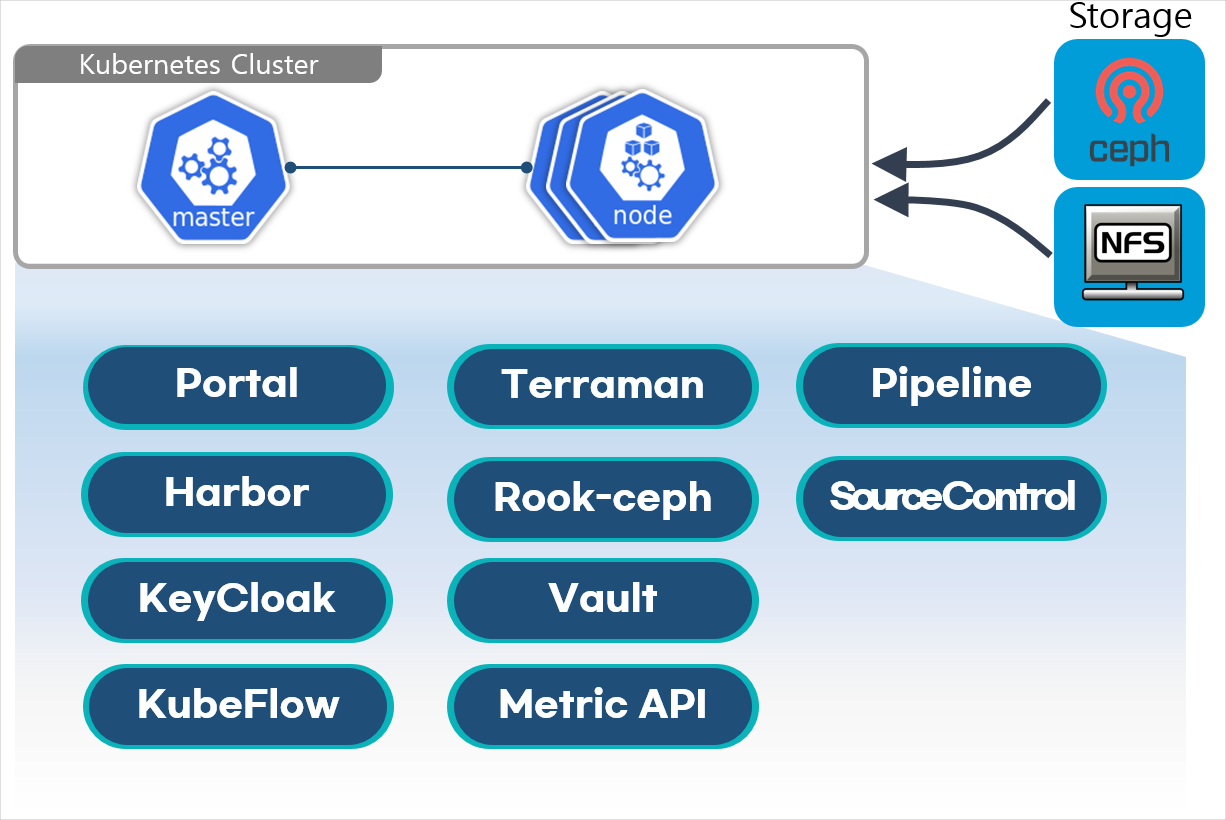
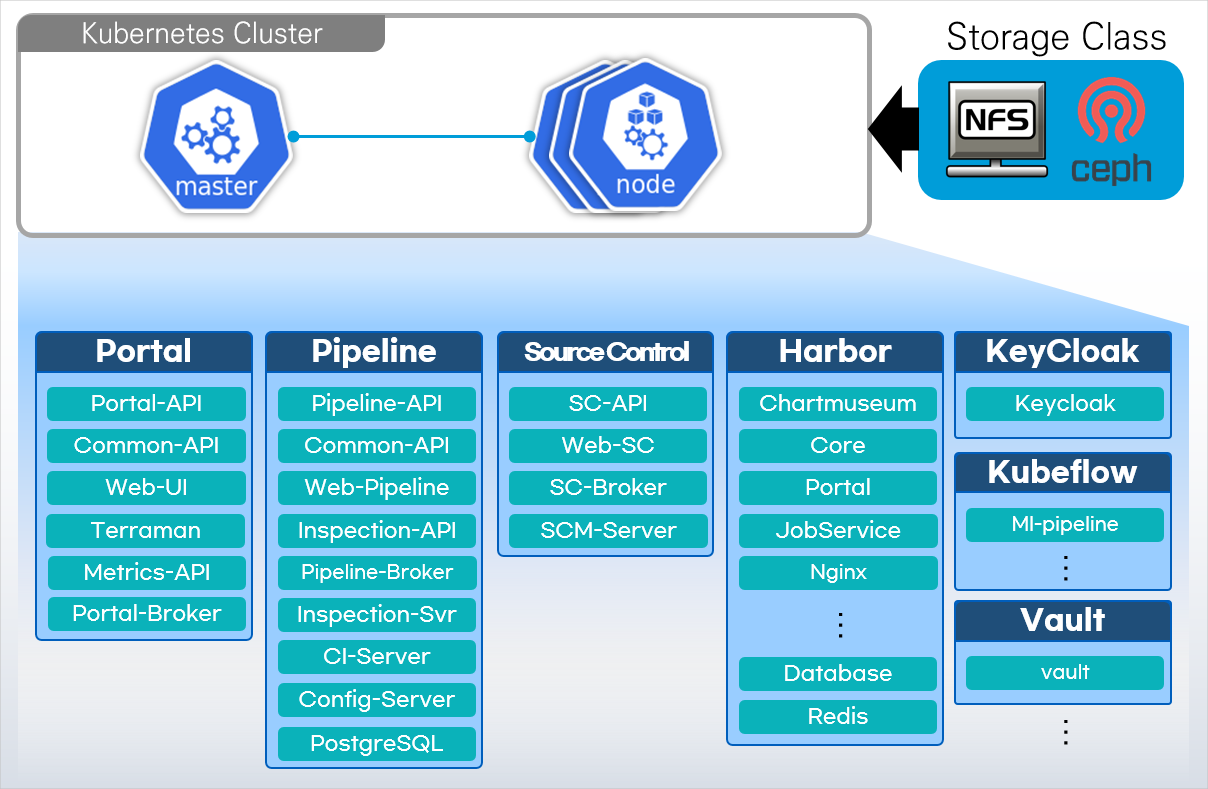
Update Guide v1.4.0

diff --git a/README.md b/README.md
@@ -78,9 +78,9 @@
   + [클러스터 설치 가이드](install-guide/standalone/cp-cluster-install.md)
   + [설치 및 배포 파일](https://github.com/PaaS-TA/paas-ta-container-platform-deployment/tree/master/standalone)
 - 포털 설치
-  + [포털 설치 가이드](install-guide/container-platform-portal/paas-ta-container-platform-portal-deployment-standalone-guide.md)  
-  + [Keycloak TLS 설정 가이드](install-guide/container-platform-portal/paas-ta-container-platform-portal-deployment-keycloak-tls-setting-guide.md)    
-  + [설치 및 배포 파일](https://github.com/PaaS-TA/paas-ta-container-platform-deployment/tree/master)  
+  + [포털 설치 가이드](install-guide/container-platform-portal/paas-ta-container-platform-portal-deployment-standalone-guide.md)
+  + [Keycloak TLS 설정 가이드](install-guide/container-platform-portal/paas-ta-container-platform-portal-deployment-keycloak-tls-setting-guide.md)
+  + [설치 및 배포 파일](https://github.com/PaaS-TA/container-platform-helm-chart/tree/master)
   + [릴리즈 파일](https://github.com/PaaS-TA/container-platform-portal-release/tree/master)
 - 서비스 설치
   + [Pipeline 설치 가이드](install-guide/pipeline/paas-ta-container-platform-pipeline-standalone-guide.md)
@@ -92,21 +92,21 @@
   + [설치 및 배포 파일](https://github.com/PaaS-TA/paas-ta-container-platform-deployment/tree/master/standalone)
 - 포털 설치
   + [포털 설치 가이드](install-guide/container-platform-portal/paas-ta-container-platform-portal-deployment-service-guide.md)
-  + [Keycloak TLS 설정 가이드](install-guide/container-platform-portal/paas-ta-container-platform-portal-deployment-keycloak-tls-setting-guide.md)      
-  + [설치 및 배포 파일](https://github.com/PaaS-TA/paas-ta-container-platform-deployment/tree/master)   
-  + [릴리즈 파일](https://github.com/PaaS-TA/container-platform-portal-release/tree/master) 
+  + [Keycloak TLS 설정 가이드](install-guide/container-platform-portal/paas-ta-container-platform-portal-deployment-keycloak-tls-setting-guide.md)
+  + [설치 및 배포 파일](https://github.com/PaaS-TA/container-platform-helm-chart/tree/master)
+  + [릴리즈 파일](https://github.com/PaaS-TA/container-platform-portal-release/tree/master)
 - 서비스 설치
   + [Pipeline 설치 가이드](install-guide/pipeline/paas-ta-container-platform-pipeline-service-guide.md)
   + [SourceControl 설치 가이드](install-guide/source-control/paas-ta-container-platform-source-control-service-guide.md)
 
 ### Edge 배포
 - Edge 설치
-  + [Edge 설치 가이드](install-guide/edge/cp-edge-install.md)  
+  + [Edge 설치 가이드](install-guide/edge/cp-edge-install.md)
   + [설치 및 배포 파일](https://github.com/PaaS-TA/paas-ta-container-platform-deployment/tree/master/edge)
 - 포털 설치
-  + [포털 설치 가이드](install-guide/container-platform-portal/paas-ta-container-platform-portal-deployment-standalone-guide.md)  
-  + [Keycloak TLS 설정 가이드](install-guide/container-platform-portal/paas-ta-container-platform-portal-deployment-keycloak-tls-setting-guide.md)      
-  + [설치 및 배포 파일](https://github.com/PaaS-TA/paas-ta-container-platform-deployment/tree/master)  
+  + [포털 설치 가이드](install-guide/container-platform-portal/paas-ta-container-platform-portal-deployment-standalone-guide.md)
+  + [Keycloak TLS 설정 가이드](install-guide/container-platform-portal/paas-ta-container-platform-portal-deployment-keycloak-tls-setting-guide.md)
+  + [설치 및 배포 파일](https://github.com/PaaS-TA/container-platform-helm-chart/tree/master)
   + [릴리즈 파일](https://github.com/PaaS-TA/container-platform-portal-release/tree/master)
 - 서비스 설치
   + [Pipeline 설치 가이드](install-guide/pipeline/paas-ta-container-platform-pipeline-standalone-guide.md)
@@ -120,7 +120,7 @@
 ## Use
 
 ### 포털 이용 가이드
-  + [포털 사용 가이드](use-guide/portal/container-platform-portal-guide.md) 
+  + [포털 사용 가이드](use-guide/portal/container-platform-portal-guide.md)
   + [Terraman IaC 스크립트 가이드](check-guide/paas-ta-container-terraman-check-guide.md)
   
 ### 서비스 이용 가이드
@@ -135,7 +135,7 @@
 ## Project
 
 ### 포털 프로젝트 
-- [container-platform-portal-api](https://github.com/PaaS-TA/container-platform-portal-api)  
+- [container-platform-portal-api](https://github.com/PaaS-TA/container-platform-portal-api)
 - [container-platform-portal-common-api](https://github.com/PaaS-TA/container-platform-portal-common-api)
 - [container-platform-portal-ui](https://github.com/PaaS-TA/container-platform-portal-ui)
 - [container-platform-portal-service-broker](https://github.com/PaaS-TA/container-platform-portal-service-broker)
@@ -149,7 +149,7 @@
 - [container-platform-pipeline-common-api](https://github.com/PaaS-TA/container-platform-pipeline-common-api)
 - [container-platform-pipeline-inspection-api](https://github.com/PaaS-TA/container-platform-pipeline-inspection-api)
 - [container-platform-pipeline-ui](https://github.com/PaaS-TA/container-platform-pipeline-ui)
-- [container-platform-pipeline-broker](https://github.com/PaaS-TA/container-platform-pipeline-broker)  
+- [container-platform-pipeline-broker](https://github.com/PaaS-TA/container-platform-pipeline-broker)
 
 #### Source Control
 - [container-platform-source-control-api](https://github.com/PaaS-TA/container-platform-source-control-api)

diff --git a/install-guide/Readme.md b/install-guide/Readme.md
@@ -1,48 +1,46 @@
 ### [Index](https://github.com/PaaS-TA/Guide/blob/master/README.md) > CP Install
 # Container Platform(CP) - install
 
-## 단독형 배포   
+### 단독형 배포   
 - 클러스터 설치
   + [클러스터 설치 가이드](standalone/cp-cluster-install.md)
   + [설치 및 배포 파일](https://github.com/PaaS-TA/paas-ta-container-platform-deployment/tree/master/standalone)
 - 포털 설치
-  + [포털 설치 가이드](container-platform-portal/paas-ta-container-platform-portal-deployment-standalone-guide.md)  
-  + [Keycloak TLS 설정 가이드](container-platform-portal/paas-ta-container-platform-portal-deployment-keycloak-tls-setting-guide.md)  
-  + [설치 및 배포 파일](https://github.com/PaaS-TA/container-platform-helm-chart/tree/master/container-platform-portal)  
+  + [포털 설치 가이드](container-platform-portal/paas-ta-container-platform-portal-deployment-standalone-guide.md)
+  + [Keycloak TLS 설정 가이드](container-platform-portal/paas-ta-container-platform-portal-deployment-keycloak-tls-setting-guide.md)
+  + [설치 및 배포 파일](https://github.com/PaaS-TA/container-platform-helm-chart/tree/master)
   + [릴리즈 파일](https://github.com/PaaS-TA/container-platform-portal-release/tree/master)
 - 서비스 설치
   + [Pipeline 설치 가이드](pipeline/paas-ta-container-platform-pipeline-standalone-guide.md)
   + [SourceControl 설치 가이드](source-control/paas-ta-container-platform-source-control-standalone-guide.md)
 
-## 서비스형 배포
+### 서비스형 배포 
 - 클러스터 설치
-  + [클러스터 설치 가이드](standalone/cp-cluster-install.md)  
+  + [클러스터 설치 가이드](standalone/cp-cluster-install.md)
   + [설치 및 배포 파일](https://github.com/PaaS-TA/paas-ta-container-platform-deployment/tree/master/standalone)
 - 포털 설치
   + [포털 설치 가이드](container-platform-portal/paas-ta-container-platform-portal-deployment-service-guide.md)
-  + [Keycloak TLS 설정 가이드](container-platform-portal/paas-ta-container-platform-portal-deployment-keycloak-tls-setting-guide.md)  
-  + [설치 및 배포 파일](https://github.com/PaaS-TA/container-platform-helm-chart/tree/master/container-platform-portal)   
+  + [Keycloak TLS 설정 가이드](container-platform-portal/paas-ta-container-platform-portal-deployment-keycloak-tls-setting-guide.md)
+  + [설치 및 배포 파일](https://github.com/PaaS-TA/container-platform-helm-chart/tree/master)
   + [릴리즈 파일](https://github.com/PaaS-TA/container-platform-portal-release/tree/master)
 - 서비스 설치
   + [Pipeline 설치 가이드](pipeline/paas-ta-container-platform-pipeline-service-guide.md)
   + [SourceControl 설치 가이드](source-control/paas-ta-container-platform-source-control-service-guide.md)
 
-## Edge 배포
+### Edge 배포
 - Edge 설치
-  + [Edge 설치 가이드](edge/cp-edge-install.md)  
+  + [Edge 설치 가이드](edge/cp-edge-install.md)
   + [설치 및 배포 파일](https://github.com/PaaS-TA/paas-ta-container-platform-deployment/tree/master/edge)
 - 포털 설치
-  + [포털 설치 가이드](container-platform-portal/paas-ta-container-platform-portal-deployment-standalone-guide.md)  
-  + [Keycloak TLS 설정 가이드](container-platform-portal/paas-ta-container-platform-portal-deployment-keycloak-tls-setting-guide.md)  
-  + [설치 및 배포 파일](https://github.com/PaaS-TA/container-platform-helm-chart/tree/master/container-platform-portal)  
+  + [포털 설치 가이드](container-platform-portal/paas-ta-container-platform-portal-deployment-standalone-guide.md)
+  + [Keycloak TLS 설정 가이드](container-platform-portal/paas-ta-container-platform-portal-deployment-keycloak-tls-setting-guide.md)
+  + [설치 및 배포 파일](https://github.com/PaaS-TA/container-platform-helm-chart/tree/master)
   + [릴리즈 파일](https://github.com/PaaS-TA/container-platform-portal-release/tree/master)
 - 서비스 설치
   + [Pipeline 설치 가이드](pipeline/paas-ta-container-platform-pipeline-standalone-guide.md)
   + [SourceControl 설치 가이드](source-control/paas-ta-container-platform-source-control-standalone-guide.md)
 - 샘플 모델
   + [웹 카운팅 / 실시간 온도수집](edge/paas-ta-container-platform-edge-sample-guide.md)
-
-
 
 
 ### [Index](https://github.com/PaaS-TA/Guide/blob/master/README.md) > CP Install

diff --git a/install-guide/pipeline/paas-ta-container-platform-pipeline-service-guide.md b/install-guide/pipeline/paas-ta-container-platform-pipeline-service-guide.md
@@ -40,13 +40,15 @@
 <br>
 
 ### <div id='1.3'>1.3. 시스템 구성도
-![image](https://user-images.githubusercontent.com/80228983/146350860-3722c081-7338-438d-b7ec-1fdac09160c4.png)<br>
+<p align="center"><img src="https://user-images.githubusercontent.com/33216551/209299431-af201419-9220-425a-8552-d15e379f8ee7.png" width="850" height="530">
 <br>
-시스템 구성은 Kubernetes Cluster(Master, Worker) 환경과 데이터 관리를 위한 네트워크 파일 시스템(NFS) 스토리지 서버로 구성되어 있다. 
-Kubespray를 통해 설치된 Kubernetes Cluster 환경에 컨테이너 플랫폼 파이프라인 이미지 및 Helm Chart를 관리하는 Harbor, 컨테이너 플랫폼 파이프라인 사용자 인증을 관리하는 Keycloak, 컨테이너 플랫폼 파이프라인 메타 데이터를 관리하는 MariaDB(RDBMS)가 컨테이너 플랫폼 포털을 통해서 제공된다.
- 컨테이너 플랫폼 파이프라인에서는 지속적 통합과 배포 기능을 관리하는 Jenkins 서버(Ci-Server) 와 정적 분석을 위한 Sonarqube(Inspection-Server), 배포되는 애플리케이션의 Config를 관리하는 Spring Config Server(Config-Server) 등 파이프라인 동작에 필요한 환경을 컨테이너로 제공한다. 
-총 필요한 VM 환경으로는 Master Node VM: 1개, Worker Node VM: 1개 이상, NFS Server : 1개가 필요하고 본 문서는 Kubernetes Cluster에 컨테이너 플랫폼 파이프라인 환경을 배포하는 내용이다. 네트워크 파일 시스템(NFS) 은 컨테이너 플랫폼에서 기본으로 제공하는 스토리지로 사용자 환경에 따라 다양한 종류의 스토리지를 사용할 수 있다. 
 
+시스템 구성은 Kubernetes Cluster(Master, Worker) 환경과 데이터 관리를 위한 스토리지 서버로 구성되어 있다. 
+Kubespray를 통해 설치된 Kubernetes Cluster 환경에 컨테이너 플랫폼 파이프라인 이미지 및 Helm Chart를 관리하는 Harbor, 컨테이너 플랫폼 파이프라인 사용자 인증을 관리하는 Keycloak, 컨테이너 플랫폼 파이프라인 메타 데이터를 관리하는 MariaDB(RDBMS)가 컨테이너 플랫폼 포털을 통해서 제공된다.
+컨테이너 플랫폼 파이프라인에서는 지속적 통합과 배포 기능을 관리하는 Jenkins 서버(Ci-Server) 와 정적 분석을 위한 Sonarqube(Inspection-Server), 배포되는 애플리케이션의 Config를 관리하는 Spring Config Server(Config-Server) 등 파이프라인 동작에 필요한 환경을 컨테이너로 제공한다. 
+총 필요한 VM 환경으로는 Master VM: 1개, Worker VM: 3개 이상이 필요하고 본 문서는 Kubernetes Cluster에 컨테이너 플랫폼 파이프라인 환경을 배포하는 내용이다. 
+
+<br>
 
 ### <div id='1.4'>1.4. 참고 자료
 > https://kubernetes.io/ko/docs  

diff --git a/install-guide/pipeline/paas-ta-container-platform-pipeline-standalone-guide.md b/install-guide/pipeline/paas-ta-container-platform-pipeline-standalone-guide.md
@@ -39,12 +39,15 @@
 <br>
 
 ### <div id='1.3'>1.3. 시스템 구성도
-![image](https://user-images.githubusercontent.com/80228983/146350860-3722c081-7338-438d-b7ec-1fdac09160c4.png)
+<p align="center"><img src="https://user-images.githubusercontent.com/33216551/209299431-af201419-9220-425a-8552-d15e379f8ee7.png" width="850" height="530">
 <br>
-시스템 구성은 Kubernetes Cluster(Master, Worker) 환경과 데이터 관리를 위한 네트워크 파일 시스템(NFS) 스토리지 서버로 구성되어 있다. 
+
+시스템 구성은 Kubernetes Cluster(Master, Worker) 환경과 데이터 관리를 위한 스토리지 서버로 구성되어 있다. 
 Kubespray를 통해 설치된 Kubernetes Cluster 환경에 컨테이너 플랫폼 파이프라인 이미지 및 Helm Chart를 관리하는 Harbor, 컨테이너 플랫폼 파이프라인 사용자 인증을 관리하는 Keycloak, 컨테이너 플랫폼 파이프라인 메타 데이터를 관리하는 MariaDB(RDBMS)가 컨테이너 플랫폼 포털을 통해서 제공된다.
- 컨테이너 플랫폼 파이프라인에서는 지속적 통합과 배포 기능을 관리하는 Jenkins 서버(Ci-Server) 와 정적 분석을 위한 Sonarqube(Inspection-Server), 배포되는 애플리케이션의 Config를 관리하는 Spring Config Server(Config-Server) 등 파이프라인 동작에 필요한 환경을 컨테이너로 제공한다. 
-총 필요한 VM 환경으로는 Master Node VM: 1개, Worker Node VM: 1개 이상, NFS Server : 1개가 필요하고 본 문서는 Kubernetes Cluster에 컨테이너 플랫폼 파이프라인 환경을 배포하는 내용이다. 네트워크 파일 시스템(NFS) 은 컨테이너 플랫폼에서 기본으로 제공하는 스토리지로 사용자 환경에 따라 다양한 종류의 스토리지를 사용할 수 있다.
+컨테이너 플랫폼 파이프라인에서는 지속적 통합과 배포 기능을 관리하는 Jenkins 서버(Ci-Server) 와 정적 분석을 위한 Sonarqube(Inspection-Server), 배포되는 애플리케이션의 Config를 관리하는 Spring Config Server(Config-Server) 등 파이프라인 동작에 필요한 환경을 컨테이너로 제공한다. 
+총 필요한 VM 환경으로는 Master VM: 1개, Worker VM: 3개 이상이 필요하고 본 문서는 Kubernetes Cluster에 컨테이너 플랫폼 파이프라인 환경을 배포하는 내용이다. 
+
+<br>
 
 ### <div id='1.4'>1.4. 참고 자료
 > https://kubernetes.io/ko/docs  

diff --git a/install-guide/source-control/paas-ta-container-platform-source-control-service-guide.md b/install-guide/source-control/paas-ta-container-platform-source-control-service-guide.md
@@ -39,13 +39,15 @@
 <br>
 
 ### <div id='1.3'>1.3. 시스템 구성도
-![image](https://user-images.githubusercontent.com/80228983/146350860-3722c081-7338-438d-b7ec-1fdac09160c4.png)
-<br>    
-시스템 구성은 Kubernetes Cluster(Master, Worker) 환경과 데이터 관리를 위한 네트워크 파일 시스템(NFS) 스토리지 서버로 구성되어 있다. 
-Kubespray를 통해 설치된 Kubernetes Cluster 환경에 컨테이너 플랫폼 소스 컨트롤 이미지 및 Helm Chart를 관리하는 Harbor, 컨테이너 플랫폼 소스 컨트롤 사용자 인증을 관리하는 Keycloak, 컨테이너 플랫폼 소스 컨트롤 메타 데이터를 관리하는 MariaDB(RDBMS)가 컨테이너 플랫폼 포털을 통해서 제공된다.
- 컨테이너 플랫폼 소스 컨트롤에서는 소스를 관리하는 SCM-Server를 컨테이너로 제공한다. 
-총 필요한 VM 환경으로는 Master Node VM: 1개, Worker Node VM: 1개 이상, NFS Server : 1개가 필요하고 본 문서는 Kubernetes Cluster에 컨테이너 플랫폼 소스 컨트롤 환경을 배포하는 내용이다. 네트워크 파일 시스템(NFS) 은 컨테이너 플랫폼에서 기본으로 제공하는 스토리지로 사용자 환경에 따라 다양한 종류의 스토리지를 사용할 수 있다. 
+<p align="center"><img src="https://user-images.githubusercontent.com/33216551/209299431-af201419-9220-425a-8552-d15e379f8ee7.png" width="850" height="530">
+<br>
 
+시스템 구성은 Kubernetes Cluster(Master, Worker) 환경과 데이터 관리를 위한 스토리지 서버로 구성되어 있다. 
+Kubespray를 통해 설치된 Kubernetes Cluster 환경에 컨테이너 플랫폼 소스 컨트롤 이미지 및 Helm Chart를 관리하는 Harbor, 컨테이너 플랫폼 소스 컨트롤 사용자 인증을 관리하는 Keycloak, 컨테이너 플랫폼 소스 컨트롤 메타 데이터를 관리하는 MariaDB(RDBMS)가 컨테이너 플랫폼 포털을 통해서 제공된다.
+컨테이너 플랫폼 소스 컨트롤에서는 소스를 관리하는 SCM-Server를 컨테이너로 제공한다. 
+총 필요한 VM 환경으로는 Master VM: 1개, Worker VM: 3개 이상이 필요하고 본 문서는 Kubernetes Cluster에 컨테이너 플랫폼 소스 컨트롤 환경을 배포하는 내용이다.
+
+<br>
 
 ### <div id='1.4'>1.4. 참고 자료
 > https://kubernetes.io/ko/docs  

diff --git a/install-guide/container-platform-portal/paas-ta-container-platform-portal-deployment-service-guide.md b/install-guide/container-platform-portal/paas-ta-container-platform-portal-deployment-service-guide.md
@@ -46,11 +46,13 @@
 <br>
 
 ### <div id='1.3'>1.3. 시스템 구성도
-<p align="center"><img src="images/cp-001.png"></p>    
+<p align="center"><img src="images/cp-001.png" width="850" height="530"></p>
 
-시스템 구성은 **Kubernetes Cluster(Master, Worker)** 환경과 데이터 관리를 위한 **네트워크 파일 시스템(NFS)** 스토리지 서버로 구성되어 있다. Kubespray를 통해 설치된 Kubernetes Cluster 환경에 컨테이너 플랫폼 포털 이미지 및 Helm Chart를 관리하는 **Harbor**, 컨테이너 플랫폼 포털 사용자 인증을 관리하는 **Keycloak**, 컨테이너 플랫폼 포털 메타 데이터를 관리하는 **MariaDB(RDBMS)** 등 미들웨어 환경을 컨테이너로 제공한다. 총 필요한 VM 환경으로는 **Master Node VM: 1개, Worker Node VM: 1개 이상, NFS Server : 1개**가 필요하고 본 문서는 Kubernetes Cluster에 컨테이너 플랫폼 포털 환경을 배포하는 내용이다. **네트워크 파일 시스템(NFS)** 은 컨테이너플랫폼에서 기본으로 제공하는 스토리지로 사용자 환경에 따라 다양한 종류의 스토리지를 사용할 수 있다.  
+시스템 구성은 **Kubernetes Cluster(Master, Worker)** 환경과 데이터 관리를 위한 스토리지 서버로 구성되어 있다.
+Kubespray를 통해 설치된 Kubernetes Cluster 환경에 컨테이너 플랫폼 포털 이미지 및 Helm Chart를 관리하는 **Harbor**, 컨테이너 플랫폼 포털 사용자 인증을 관리하는 **Keycloak**, 인증 데이터를 관리하는 **Vault**, 메타 데이터를 관리하는 **MariaDB(RDBMS)** 등 미들웨어 환경을 컨테이너로 제공한다. 
+총 필요한 VM 환경으로는 **Master VM: 1개, Worker VM: 3개 이상**이 필요하고 본 문서는 Kubernetes Cluster에 컨테이너 플랫폼 포털 환경을 배포하는 내용이다. 
 
-<br>    
+<br> 
 
 ### <div id='1.4'>1.4. 참고 자료
 > https://kubernetes.io/ko/docs<br>

diff --git a/install-guide/source-control/paas-ta-container-platform-source-control-standalone-guide.md b/install-guide/source-control/paas-ta-container-platform-source-control-standalone-guide.md
@@ -38,14 +38,15 @@
 <br>
 
 ### <div id='1.3'>1.3. 시스템 구성도
-시스템 구성은 Kubernetes Cluster(Master, Worker)와 Cluster 내부(DBMS, HAProxy, Private Repository, Keycloak)환경으로 구성되어 있다. <br>
-Kubespray를 통해 Kubernetes Cluster를 설치하고 컨테이너 플랫폼 포털 로 Database, Private Repository 등 미들웨어 환경을 제공하여 Docker Image로 Kubernetes Cluster에 컨테이너 플랫폼 포털 환경을 배포한다. <br>
-총 필요한 VM 환경으로는 **Master Node VM**: 1개, Worker Node VM: 1개 이상 필요하고 본 문서는 Kubernetes Cluster에 컨테이너 플랫폼 소스 컨트롤을 배포하는 내용이다.
+<p align="center"><img src="https://user-images.githubusercontent.com/33216551/209299431-af201419-9220-425a-8552-d15e379f8ee7.png" width="850" height="530">
+<br>
 
-![image](https://user-images.githubusercontent.com/80228983/146350860-3722c081-7338-438d-b7ec-1fdac09160c4.png)
+시스템 구성은 Kubernetes Cluster(Master, Worker) 환경과 데이터 관리를 위한 스토리지 서버로 구성되어 있다. 
+Kubespray를 통해 설치된 Kubernetes Cluster 환경에 컨테이너 플랫폼 소스 컨트롤 이미지 및 Helm Chart를 관리하는 Harbor, 컨테이너 플랫폼 소스 컨트롤 사용자 인증을 관리하는 Keycloak, 컨테이너 플랫폼 소스 컨트롤 메타 데이터를 관리하는 MariaDB(RDBMS)가 컨테이너 플랫폼 포털을 통해서 제공된다.
+컨테이너 플랫폼 소스 컨트롤에서는 소스를 관리하는 SCM-Server를 컨테이너로 제공한다. 
+총 필요한 VM 환경으로는 Master VM: 1개, Worker VM: 3개 이상이 필요하고 본 문서는 Kubernetes Cluster에 컨테이너 플랫폼 소스 컨트롤 환경을 배포하는 내용이다.
 
-    
-<br>    
+<br>
 
 ### <div id='1.4'>1.4. 참고 자료
 > https://kubernetes.io/ko/docs  

diff --git a/install-guide/container-platform-portal/paas-ta-container-platform-portal-deployment-standalone-guide.md b/install-guide/container-platform-portal/paas-ta-container-platform-portal-deployment-standalone-guide.md
@@ -40,9 +40,9 @@
 <br>
 
 ### <div id='1.3'>1.3. 시스템 구성도
-<p align="center"><img src="images/cp-001.png"></p>    
+<p align="center"><img src="images/cp-001.png" width="850" height="530"></p>
 
-시스템 구성은 **Kubernetes Cluster(Master, Worker)** 환경과 데이터 관리를 위한 **네트워크 파일 시스템(NFS)** 스토리지 서버로 구성되어 있다. Kubespray를 통해 설치된 Kubernetes Cluster 환경에 컨테이너 플랫폼 포털 이미지 및 Helm Chart를 관리하는 **Harbor**, 컨테이너 플랫폼 포털 사용자 인증을 관리하는 **Keycloak**, 컨테이너 플랫폼 포털 메타 데이터를 관리하는 **MariaDB(RDBMS)** 등 미들웨어 환경을 컨테이너로 제공한다. 총 필요한 VM 환경으로는 **Master Node VM: 1개, Worker Node VM: 1개 이상, NFS Server : 1개**가 필요하고 본 문서는 Kubernetes Cluster에 컨테이너 플랫폼 포털 환경을 배포하는 내용이다. **네트워크 파일 시스템(NFS)** 은 컨테이너플랫폼에서 기본으로 제공하는 스토리지로 사용자 환경에 따라 다양한 종류의 스토리지를 사용할 수 있다.  
+시스템 구성은 **Kubernetes Cluster(Master, Worker)** 환경과 데이터 관리를 위한 스토리지 서버로 구성되어 있다. Kubespray를 통해 설치된 Kubernetes Cluster 환경에 컨테이너 플랫폼 포털 이미지 및 Helm Chart를 관리하는 **Harbor**, 컨테이너 플랫폼 포털 사용자 인증을 관리하는 **Keycloak**, 인증 데이터를 관리하는 **Vault**, 메타 데이터를 관리하는 **MariaDB(RDBMS)** 등 미들웨어 환경을 컨테이너로 제공한다. 총 필요한 VM 환경으로는 **Master VM: 1개, Worker VM: 3개 이상**이 필요하고 본 문서는 Kubernetes Cluster에 컨테이너 플랫폼 포털 환경을 배포하는 내용이다. 
 
 <br>    
 

diff --git a/use-guide/Readme.md b/use-guide/Readme.md
@@ -3,8 +3,9 @@
 
 ### 포털 이용 가이드
   + [포털 사용 가이드](portal/container-platform-portal-guide.md) 
-
-## 서비스 이용 가이드
+  + [Terraman IaC 스크립트 가이드](../check-guide/paas-ta-container-terraman-check-guide.md)
+  
+### 서비스 이용 가이드
 - Pipeline 서비스
   + [Pipeline 서비스 사용 가이드](pipeline/paas-ta-container-platform-pipeline-use-guide.md)
 - Source Control 서비스
